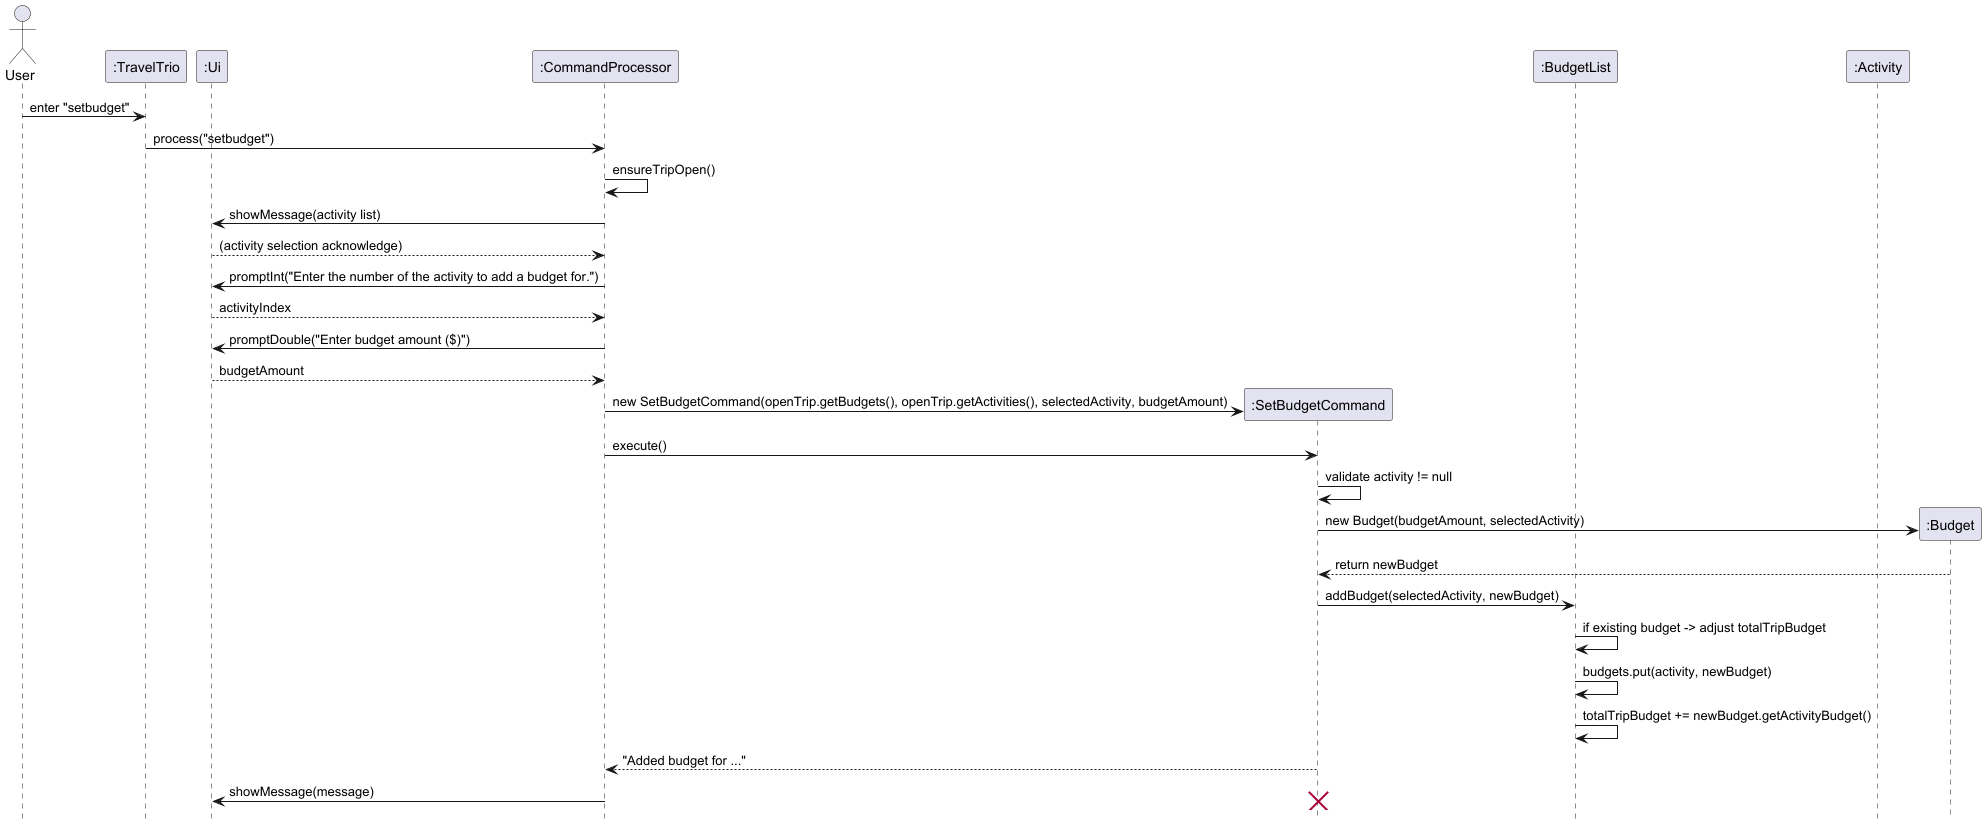
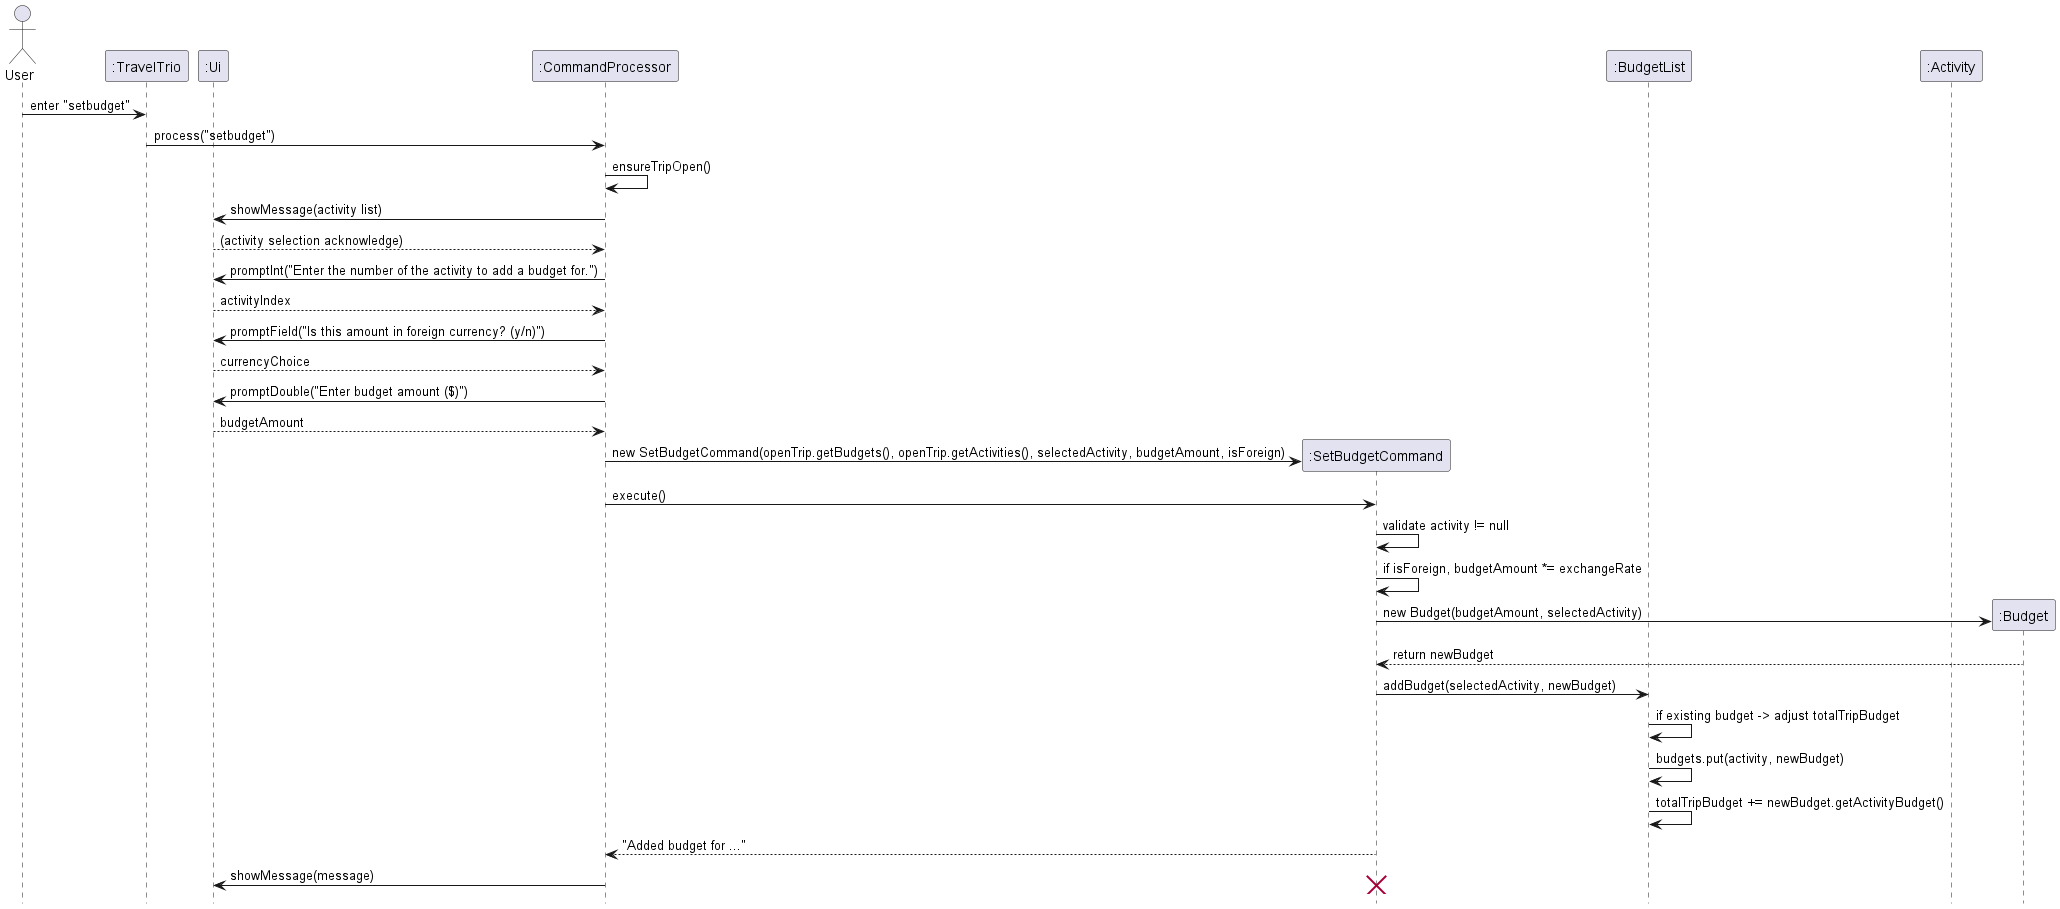
Add foreign currency input to setbudget

diff --git a/src/main/java/seedu/traveltrio/CommandProcessor.java b/src/main/java/seedu/traveltrio/CommandProcessor.java
@@ -188,9 +188,14 @@ public class CommandProcessor {
         }
         printActivityList();
         int budgetActivityIdx = ui.promptInt("Enter the index of the activity to add a budget for");
+        String currencyChoice = ui.promptField("Is this amount in foreign currency? (y/n)").toLowerCase();
+        boolean isForeign = currencyChoice.equals("y") || currencyChoice.equals("yes");
         double budgetAmount = ui.promptDouble("Enter budget amount ($)");
+        if (isForeign) {
+            ui.showMessage("Amount will be converted to home currency using current exchange rate.");
+        }
         ui.showMessage(new SetBudgetCommand(openTrip.getBudgets(),
-                openTrip.getActivities(), openTrip.getActivities().get(budgetActivityIdx - 1), budgetAmount)
+                openTrip.getActivities(), openTrip.getActivities().get(budgetActivityIdx - 1), budgetAmount, isForeign)
                 .run());
     }
 
@@ -255,7 +260,7 @@ public class CommandProcessor {
 
         }
 
-        String currencyChoice = ui.promptField("Is the amount in foreign currency? (y/n)");
+        String currencyChoice = ui.promptField("Is this amount in foreign currency? (y/n)");
         if (!currencyChoice.equalsIgnoreCase("y") && !currencyChoice.equalsIgnoreCase("n")) {
             throw new TravelTrioException("Invalid choice for currency. Please enter 'y' for Yes or 'n' for No.");
         }

diff --git a/src/main/java/seedu/traveltrio/command/finance/budget/SetBudgetCommand.java b/src/main/java/seedu/traveltrio/command/finance/budget/SetBudgetCommand.java
@@ -22,13 +22,18 @@ public class SetBudgetCommand extends BudgetCommand {
      * @param activityList The list containing all scheduled activities for the current trip.
      * @param activity The specific activity to assign the budget to.
      * @param totalBudget The monetary amount to set as the budget.
+     * @param isForeign True if the amount is in foreign currency, false if in home currency.
      */
-    public SetBudgetCommand(BudgetList budgetList, ActivityList activityList, Activity activity, double totalBudget) {
+    public SetBudgetCommand(BudgetList budgetList, ActivityList activityList, Activity activity, double totalBudget, boolean isForeign) {
         super(budgetList, activityList , activity);
-        if (Math.abs(totalBudget) < 0.0001) {
+        double adjustedBudget = totalBudget;
+        if (isForeign) {
+            adjustedBudget *= budgetList.getExchangeRate();
+        }
+        if (Math.abs(adjustedBudget) < 0.0001) {
             this.totalBudget = 0;
         } else {
-            this.totalBudget = totalBudget;
+            this.totalBudget = adjustedBudget;
         }
     }
 

diff --git a/docs/DeveloperGuide.md b/docs/DeveloperGuide.md
@@ -281,7 +281,7 @@ The feature mainly involves the following classes:
 - Ui — handles all interactions with the user, such as prompting for the activity index and budget amount.
 - Storage — handles all saving and loading of txt file, allowing for saving of data across sessions. 
 
-The `SetBudgetCommand` receives the target `BudgetList`, `ActivityList`, the specific `Activity`, and the budget amount.
+The `SetBudgetCommand` receives the target `BudgetList`, `ActivityList`, the specific `Activity`, the budget amount, and whether the amount is in foreign currency.
 When `SetBudgetCommand#execute()` is called, a new `Budget` is created and added to the `BudgetList` for the activity, and a success message is returned.
 
 Given below is an example usage scenario and how the set budget mechanism behaves at each step.
@@ -290,9 +290,9 @@ Step 1. The user opens a trip, for example Japan Trip. The opened Trip contains 
 
 Step 2. The user executes a `setbudget` command, followed by seeing the list of all current activities.
 
-Step 3. The application prompts the user to select an activity from the list and enter the budget amount.
+Step 3. The application prompts the user to select an activity from the list, choose the currency, and enter the budget amount.
 
-Step 4. The application creates a `SetBudgetCommand`, passing in the current trip’s `BudgetList`, `ActivityList`, the selected `Activity`, and the budget amount.
+Step 4. The application creates a `SetBudgetCommand`, passing in the current trip’s `BudgetList`, `ActivityList`, the selected `Activity`, the budget amount, and the currency flag.
 
 Step 5. The user command is executed through `SetBudgetCommand#execute()`. The command creates a new `Budget` object and calls `BudgetList#addBudget(activity, budget)` to store it.
 
@@ -675,7 +675,7 @@ Packing List:
 
 #### Scenario 3: Budget Management (if activity has no budget set)
 1. Ensure a trip is open with at least one activity
-2. **Set budget:** Type `setbudget`, select an activity, and enter a budget amount (e.g., 150.00)
+2. **Set budget:** Type `setbudget`, select an activity, choose if the amount is in foreign currency, and enter a budget amount (e.g., 150.00)
 3. **Set expense (below budget):** Type `setexpense`, select the same activity, and enter an amount less than the budget (e.g., 100.00)
    - **Expected:** Confirmation that expense is recorded successfully
 4. **Set expense (warning level):** Type `setexpense` again, entering an amount that brings total to 90% or more of budget (e.g., 40.00 more = 140.00 total)

diff --git a/docs/UserGuide.md b/docs/UserGuide.md
@@ -398,11 +398,12 @@ Display the next closest activity that would happen
 *Note: All monetary values displayed are of the home currency of the user.*
 
 #### 3.1 Adding a Budget for an Activity
-Records the expected or planned cost of an activity in the users home currency. To change the budget for a specific activity, the same command is used with the new budget amount. To delete a budget, simply use the same command and set the budget for the activity to 0. When the budget is removed, the expense for it is deleted concurrently.
+Records the expected or planned cost of an activity. You can enter the amount in either home or foreign currency, and TravelTrio will convert it automatically if needed. To change the budget for a specific activity, the same command is used with the new budget amount. To delete a budget, simply use the same command and set the budget for the activity to 0. When the budget is removed, the expense for it is deleted concurrently.
 
 * Format: `setbudget`
     * After entering the command, the application will prompt the user for inputs:
         * `Enter the index of the activity to add a budget for:`
+        * `Is this amount in foreign currency? (y/n):`
         * `Enter budget amount ($):`
       
 * Example usage:
@@ -416,6 +417,7 @@ Records the expected or planned cost of an activity in the users home currency. 
     2   | Night Swim                | Hotel           | 2026-12-11   | 16:00 to 17:00 | -
   
     Enter the index of the activity to add a budget for:  1
+    Is this amount in foreign currency? (y/n): n
     Enter budget amount ($):  200
     ```
 * Expected result:
@@ -492,7 +494,7 @@ Records the actual amount spent on an activity. This allows users to compare the
 * Format: `setexpense`
   * After entering the command, the application will prompt the user for inputs:
     * `Enter the activity index to set actual spending`
-    * `Is the amount in foreign currency? (y/n)`
+    * `Is this amount in foreign currency? (y/n)`
     * `Enter amount spent ($):`
     
 * Example usage:
